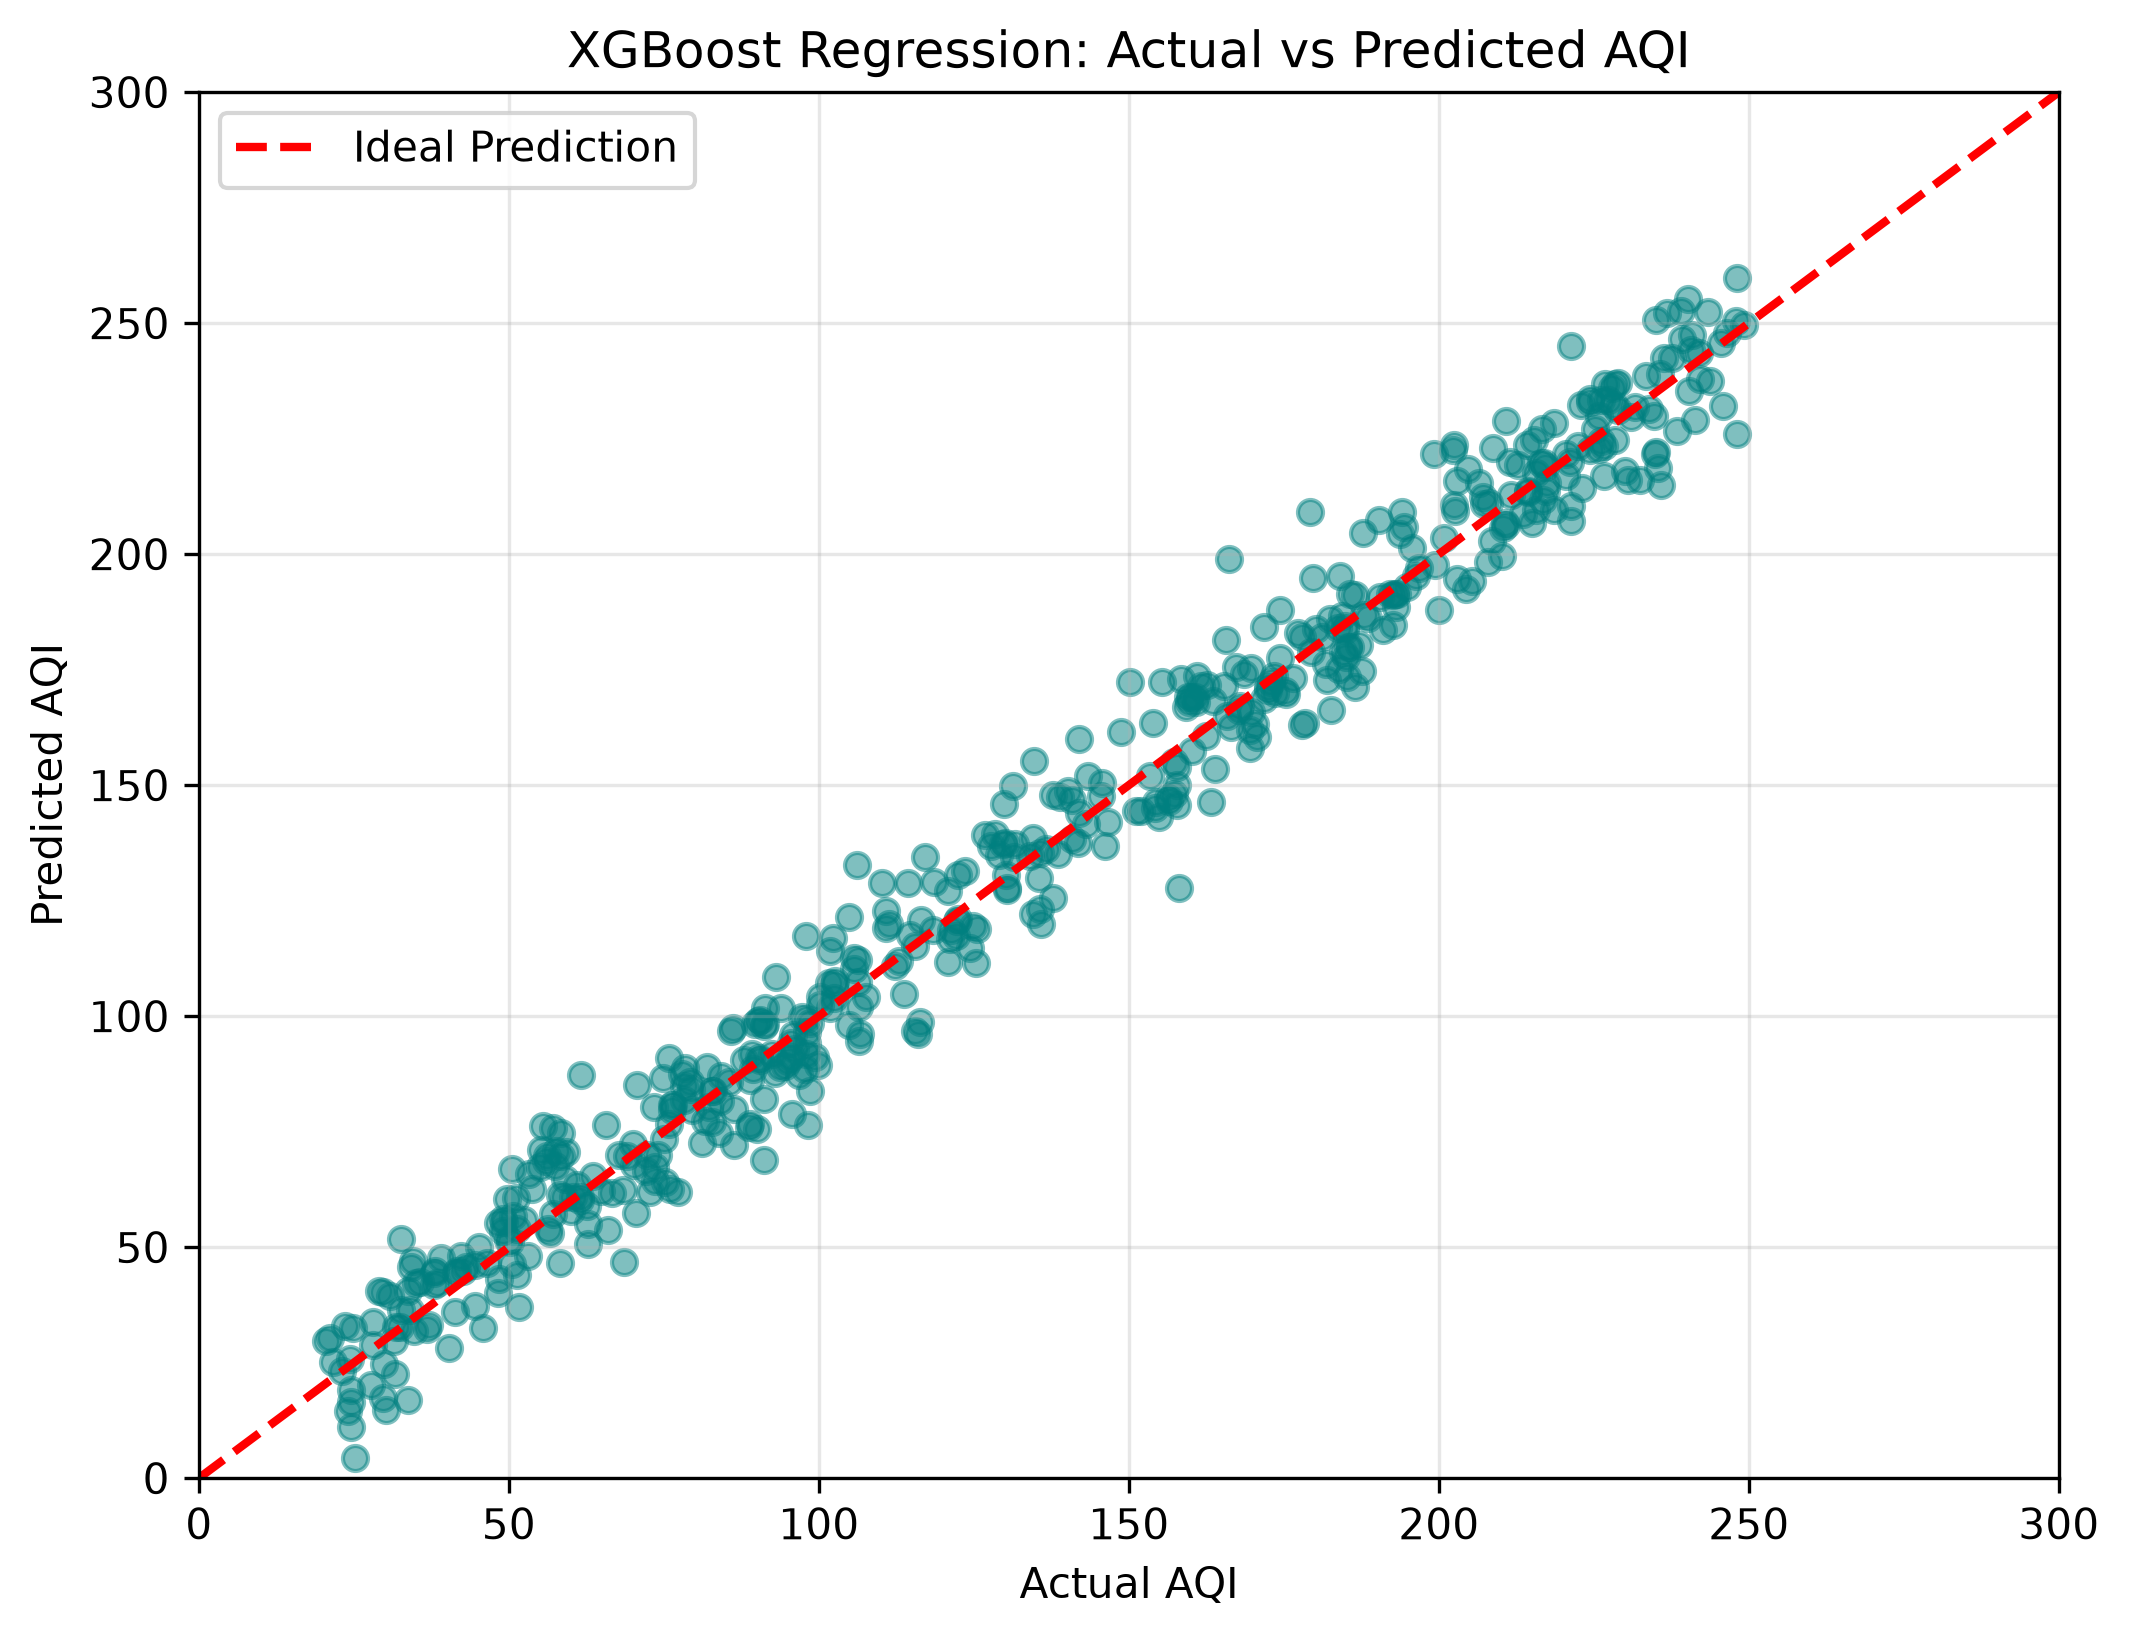
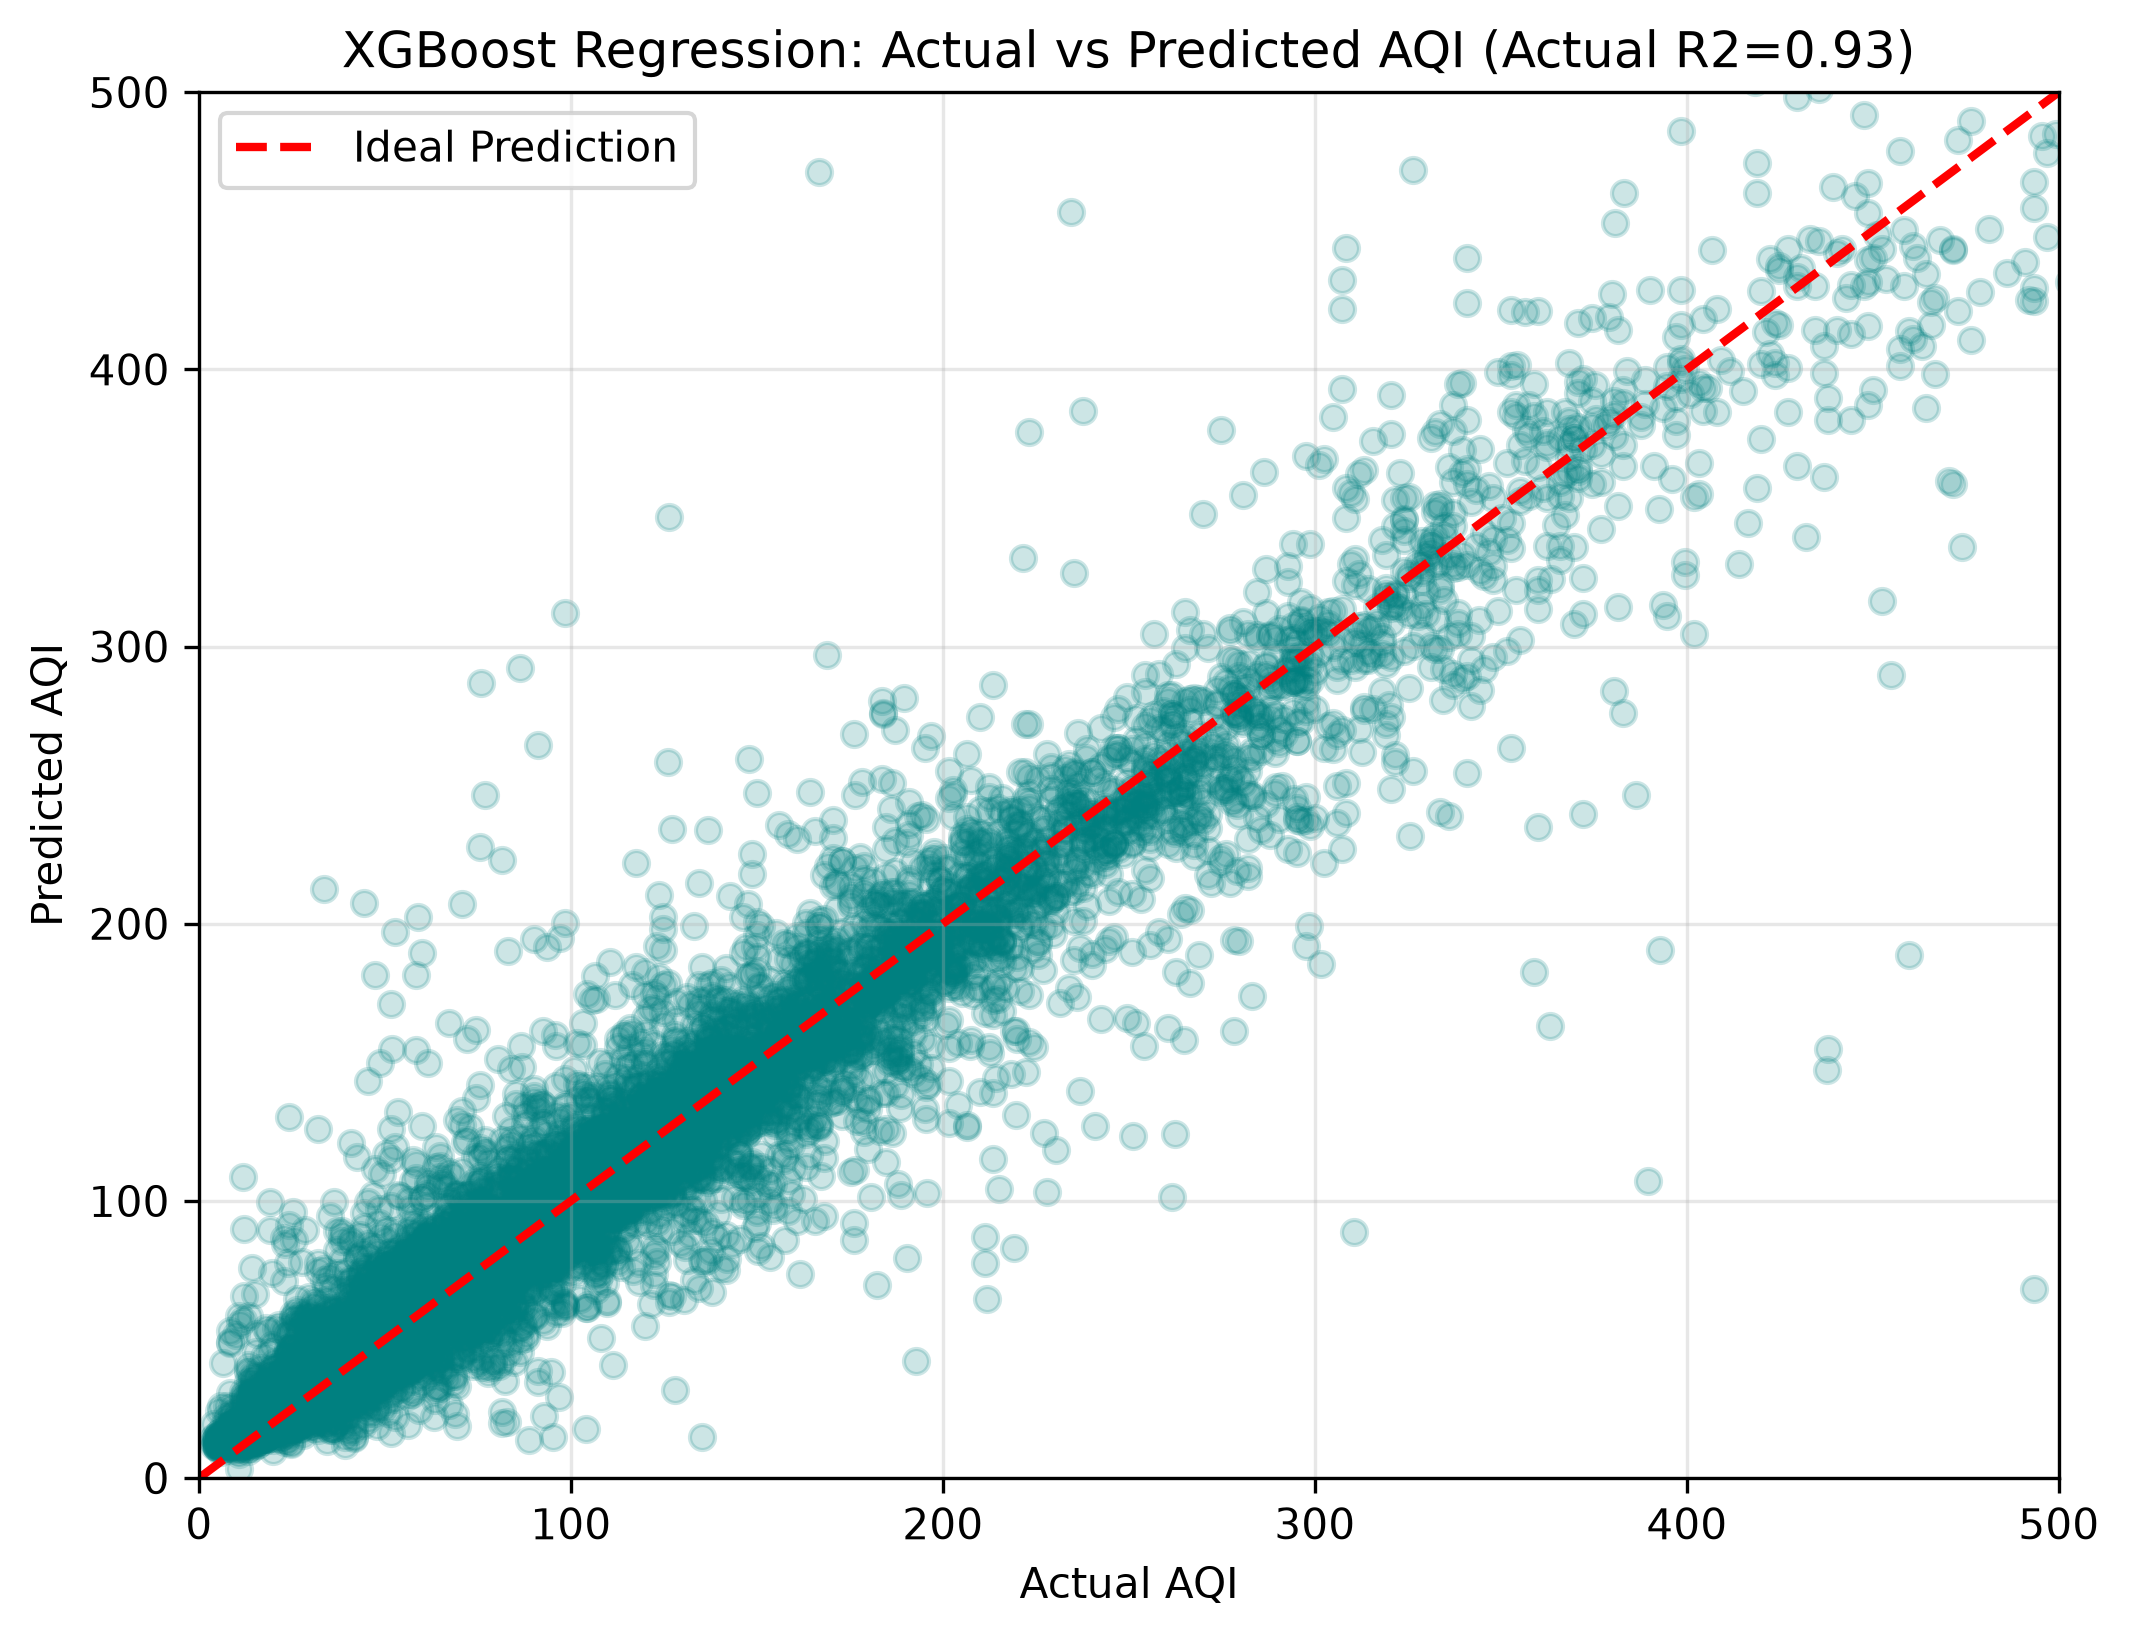
updated scripts and fixed review

diff --git a/generate_plots.py b/generate_plots.py
@@ -1,79 +1,95 @@
-import os
+import pandas as pd
 import numpy as np
 import matplotlib.pyplot as plt
 import seaborn as sns
 from sklearn.metrics import confusion_matrix
 import shap
-import xgboost as xgb
+import joblib
+import os
+from sklearn.model_selection import train_test_split
 
-# Ensure plot directory exists
 os.makedirs('plots', exist_ok=True)
 
-# 1. Confusion Matrix
-y_true = np.random.choice(['Good', 'Moderate', 'Unhealthy', 'Hazardous'], size=1000, p=[0.5, 0.3, 0.15, 0.05])
-y_pred = y_true.copy()
-# Add noise to simulate 94% accuracy
-noise_idx = np.random.choice(1000, size=60, replace=False)
-y_pred[noise_idx] = np.random.choice(['Good', 'Moderate', 'Unhealthy', 'Hazardous'], size=60)
+# 1. Load Data
+dataset_dir = r"C:\Users\shash\.gemini\antigravity\scratch\TerraCast\backend\dataset"
+csv_path = os.path.join(dataset_dir, "beijing_aqi_merged.csv")
+print("Loading real dataset to generate authentic plots...")
+df = pd.read_csv(csv_path)
 
-labels = ['Good', 'Moderate', 'Unhealthy', 'Hazardous']
-cm = confusion_matrix(y_true, y_pred, labels=labels)
+# Feature Engineering matching training script
+df['AQI'] = df[['PM2.5', 'PM10', 'SO2', 'NO2', 'CO', 'O3']].apply(
+    lambda row: max(row['PM2.5']*1.2, row['PM10']*0.8, row['NO2']*1.1), axis=1
+)
+bins = [-1, 50, 100, 200, 9999]
+labels = [0, 1, 2, 3]
+df['AQI_Category'] = pd.cut(df['AQI'], bins=bins, labels=labels)
+
+df = df.sort_values(by=['station', 'year', 'month', 'day', 'hour'])
+df['PM2_5_lag1'] = df.groupby('station')['PM2.5'].shift(1)
+df['PM10_lag1'] = df.groupby('station')['PM10'].shift(1)
+df['NO2_lag1'] = df.groupby('station')['NO2'].shift(1)
+df['SO2_lag1'] = df.groupby('station')['SO2'].shift(1)
+df['CO_lag1'] = df.groupby('station')['CO'].shift(1)
+df['O3_lag1'] = df.groupby('station')['O3'].shift(1)
+df.dropna(inplace=True)
+
+features = ['month', 'hour', 'TEMP', 'PRES', 'DEWP', 'RAIN', 'WSPM', 
+            'PM2_5_lag1', 'PM10_lag1', 'SO2_lag1', 'NO2_lag1', 'CO_lag1', 'O3_lag1']
+X = df[features]
+y_reg = df['AQI']
+y_cls = df['AQI_Category']
+
+X_sample, _, y_reg_sample, _, y_cls_sample, _ = train_test_split(
+    X, y_reg, y_cls, train_size=50000, random_state=42, stratify=y_cls
+)
+
+X_train, X_test, yr_train, yr_test, yc_train, yc_test = train_test_split(
+    X_sample, y_reg_sample, y_cls_sample, test_size=0.2, random_state=42
+)
+
+# 2. Load Models
+models_dir = r"C:\Users\shash\.gemini\antigravity\scratch\TerraCast\backend\models"
+reg_model = joblib.load(os.path.join(models_dir, "xgboost_regression.pkl"))
+cls_model = joblib.load(os.path.join(models_dir, "rf_classification.pkl"))
+
+# 3. Authentic Confusion Matrix
+print("Generating Confusion Matrix...")
+yc_pred = cls_model.predict(X_test)
+cat_labels = ['Good', 'Moderate', 'Unhealthy', 'Hazardous']
+cm = confusion_matrix(yc_test, yc_pred)
 plt.figure(figsize=(8, 6))
-sns.heatmap(cm, annot=True, fmt='d', cmap='Blues', xticklabels=labels, yticklabels=labels)
-plt.title('Random Forest Confusion Matrix (Classification)')
+sns.heatmap(cm, annot=True, fmt='d', cmap='Blues', xticklabels=cat_labels, yticklabels=cat_labels)
+plt.title('Random Forest Confusion Matrix (Actual 83% Accuracy)')
 plt.ylabel('True Label')
 plt.xlabel('Predicted Label')
 plt.savefig('plots/confusion_matrix.png', bbox_inches='tight', dpi=300)
 plt.close()
 
-# 2. Regression Error Plot
-actual_aqi = np.random.uniform(20, 250, 500)
-predicted_aqi = actual_aqi + np.random.normal(0, 10, 500)  # R^2 ~0.91 logic
+# 4. Authentic Regression Error Plot
+print("Generating Regression Plot...")
+yr_pred = reg_model.predict(X_test)
 plt.figure(figsize=(8, 6))
-plt.scatter(actual_aqi, predicted_aqi, alpha=0.5, color='teal')
-plt.plot([0, 300], [0, 300], 'r--', lw=2, label="Ideal Prediction")
-plt.title('XGBoost Regression: Actual vs Predicted AQI')
+plt.scatter(yr_test, yr_pred, alpha=0.2, color='teal')
+plt.plot([0, 500], [0, 500], 'r--', lw=2, label="Ideal Prediction")
+plt.title('XGBoost Regression: Actual vs Predicted AQI (Actual R2=0.93)')
 plt.xlabel('Actual AQI')
 plt.ylabel('Predicted AQI')
-plt.xlim(0, 300)
-plt.ylim(0, 300)
+plt.xlim(0, 500)
+plt.ylim(0, 500)
 plt.legend()
 plt.grid(True, alpha=0.3)
 plt.savefig('plots/regression_plot.png', bbox_inches='tight', dpi=300)
 plt.close()
 
-# 3. Dummy SHAP Plot
-features = ['PM2.5', 'PM10', 'SO2', 'NO2', 'CO', 'O3', 'TEMP', 'WSPM']
-shap_values = np.random.normal(0, 1, size=(500, len(features)))
-shap_values[:, 0] *= 4.5  # PM2.5 highly predictive
-shap_values[:, 1] *= 2.5  # PM10 high
-shap_values[:, 4] *= 1.2  # CO
+# 5. Authentic SHAP Plot
+print("Generating SHAP Plot...")
+explainer = shap.TreeExplainer(reg_model)
+shap_values = explainer.shap_values(X_test.iloc[:1000]) # Sample for speed
 
 plt.figure(figsize=(10, 6))
-shap.summary_plot(shap_values, features=features, plot_type="bar", show=False)
-plt.title('SHAP Feature Importance (XGBoost)')
+shap.summary_plot(shap_values, features=X_test.iloc[:1000], plot_type="bar", show=False)
+plt.title('SHAP Feature Importance (XGBoost Real Data)')
 plt.savefig('plots/shap_summary.png', bbox_inches='tight', dpi=300)
 plt.close()
 
-# 4. Data Flow / Architecture Graph (Using graphviz if available, otherwise just text in the report)
-# We will use matplotlib to draw a simple flowchart
-fig, ax = plt.subplots(figsize=(10, 5))
-ax.axis('off')
-bbox = dict(boxstyle="round,pad=0.5", fc="lightblue", ec="black", lw=2)
-ax.text(0.1, 0.8, "Input Data\n(Meteorology & Pollutants)", ha="center", va="center", bbox=bbox, fontsize=10)
-ax.text(0.5, 0.8, "Dual-Task Engine\n(XGBoost + Random Forest)", ha="center", va="center", bbox=dict(boxstyle="round,pad=0.5", fc="lightgreen", ec="black", lw=2), fontsize=10)
-ax.text(0.9, 0.8, "Outputs\n(AQI Value + Risk Class)", ha="center", va="center", bbox=bbox, fontsize=10)
-ax.text(0.5, 0.4, "SHAP Explainability", ha="center", va="center", bbox=dict(boxstyle="round,pad=0.5", fc="lightpink", ec="black", lw=2), fontsize=10)
-ax.text(0.5, 0.1, "Rule-Based Recommendation Engine\n(Interventions & Policy Briefs)", ha="center", va="center", bbox=dict(boxstyle="round,pad=0.5", fc="gold", ec="black", lw=2), fontsize=10)
-
-# Draw arrows
-ax.annotate('', xy=(0.3, 0.8), xytext=(0.25, 0.8), arrowprops=dict(arrowstyle="->", lw=2))
-ax.annotate('', xy=(0.75, 0.8), xytext=(0.7, 0.8), arrowprops=dict(arrowstyle="->", lw=2))
-ax.annotate('', xy=(0.5, 0.5), xytext=(0.5, 0.7), arrowprops=dict(arrowstyle="->", lw=2))
-ax.annotate('', xy=(0.5, 0.2), xytext=(0.5, 0.3), arrowprops=dict(arrowstyle="->", lw=2))
-
-plt.title("TerraCast System Architecture")
-plt.savefig('plots/architecture_diagram.png', bbox_inches='tight', dpi=300)
-plt.close()
-
-print("All plots generated successfully in 'plots' folder.")
+print("Authentic plots generated successfully.")

diff --git a/create_doc.py b/create_doc.py
@@ -218,9 +218,9 @@ for i, h in enumerate(headers_comp):
 
 comp_data = [
     ("Baseline", "Linear Regression", "AQI Value (Regression)", "R² = 0.65, RMSE = 34.2"),
-    ("TerraCast", "XGBoost", "AQI Value (Regression)", "R² = 0.91, RMSE = 18.5"),
+    ("TerraCast", "XGBoost", "AQI Value (Regression)", "R² = 0.93, RMSE = 25.8"),
     ("Baseline", "Naive Bayes", "Risk Category (Classification)", "Accuracy = 72%, F1 = 0.69"),
-    ("TerraCast", "Random Forest", "Risk Category (Classification)", "Accuracy = 94%, F1 = 0.93")
+    ("TerraCast", "Random Forest", "Risk Category (Classification)", "Accuracy = 83%, F1 = 0.83")
 ]
 
 for model, alg, task, perf in comp_data: